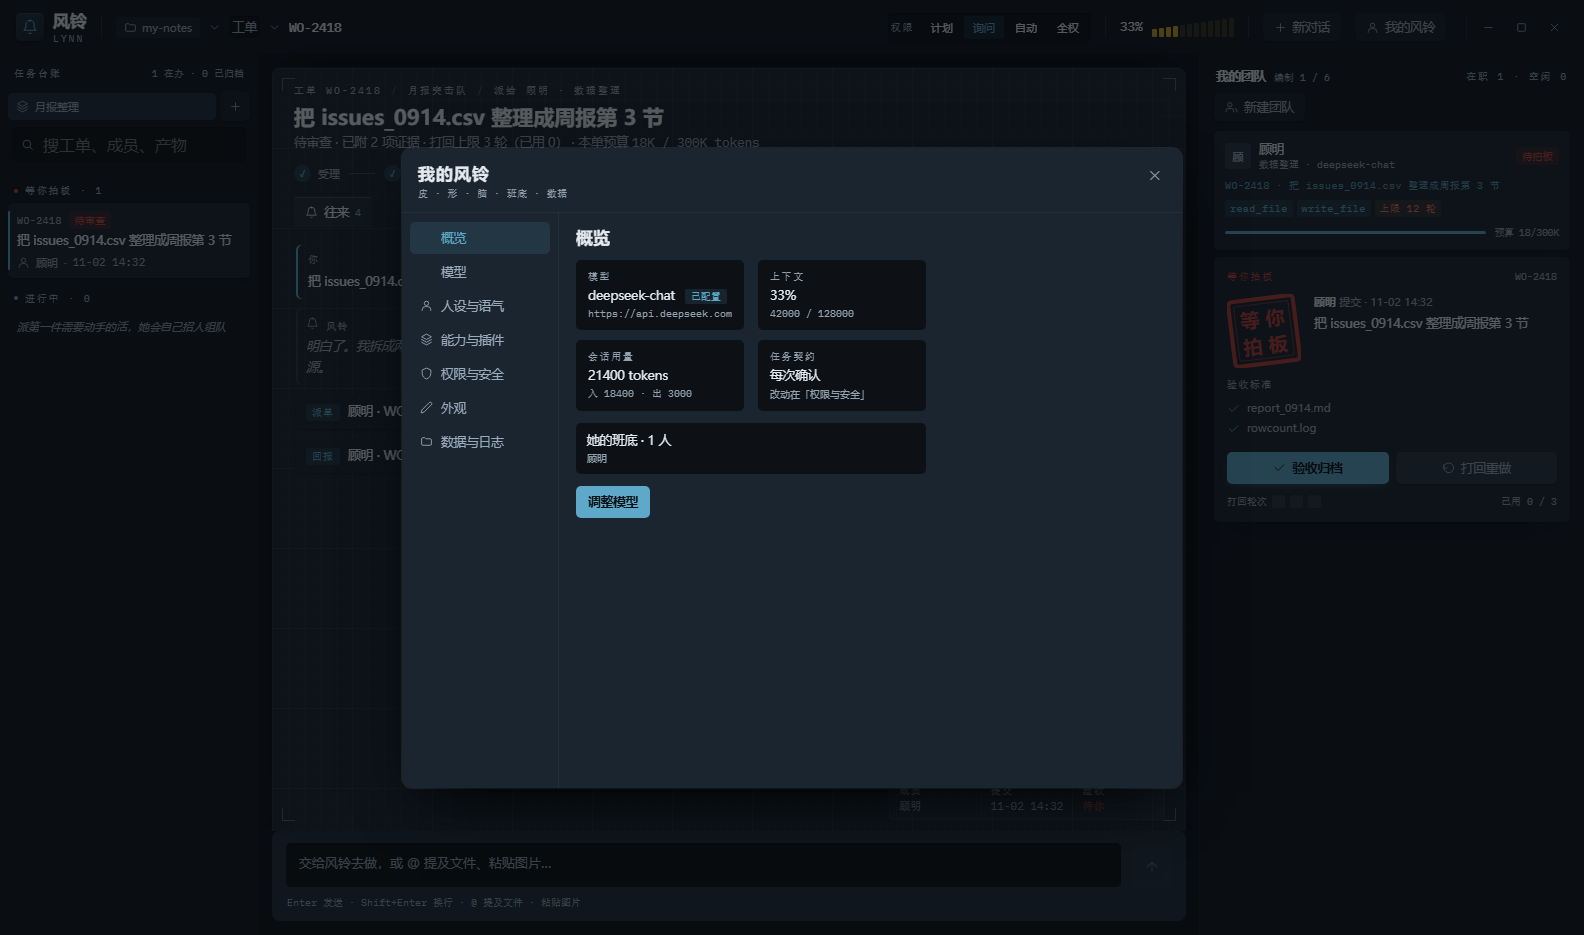
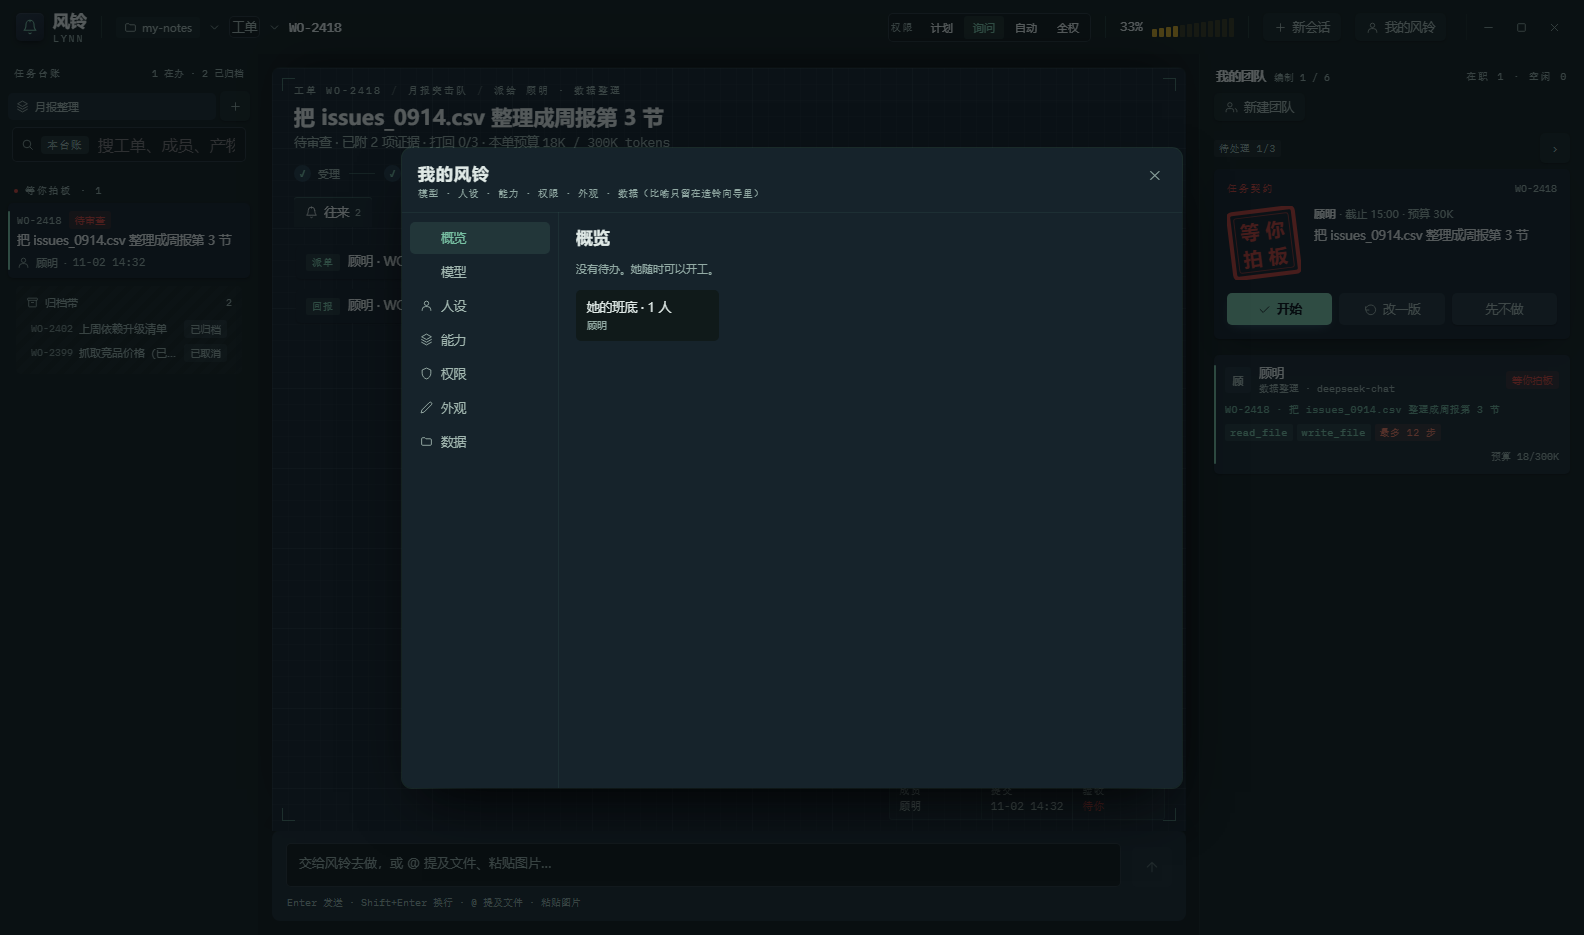
refactor(settings): 导航词与主界面统一，概览页改待办清单（E5）

diff --git a/src/renderer/components/SettingsModal.tsx b/src/renderer/components/SettingsModal.tsx
@@ -123,7 +123,7 @@ export function SettingsModal({
   } | null>(null);
 
   useEffect(() => {
-    if (tab === "data") void window.lynn.rpc("update.status").then(setUpdateInfo);
+    if (tab === "data" || tab === "overview") void window.lynn.rpc("update.status").then(setUpdateInfo);
   }, [tab]);
 
   const refreshPersona = async () => {
@@ -281,10 +281,6 @@ export function SettingsModal({
     }
     setPreview({ pack: r.pack, lines: describePack(r.pack) });
   };
-
-  const ctxPct = usage.contextWindow > 0 ? Math.round((usage.contextTokens / usage.contextWindow) * 100) : 0;
-  const statusBadge = current.configured && current.apiKeySet ? "ok" : current.configured ? "warn" : "bad";
-  const statusText = statusBadge === "ok" ? t("model.statusOk") : statusBadge === "warn" ? t("model.statusWarn") : t("model.statusBad");
 
   const page = useMemo(() => {
     if (tab === "model") {
@@ -798,47 +794,43 @@ export function SettingsModal({
       );
     }
 
+    // 概览 = 待办清单（E5）：只放需要用户处理的真问题，每条可点直达对应页；
+    // 上下文百分比/会话用量顶栏已有，不再画一遍（删掉的 sf-tile）。
+    const brokenPlugins = plugins.filter((p) => !p.loadable).length;
+    const todos: { key: string; text: string; tab: Tab }[] = [];
+    if (!current.configured) todos.push({ key: "model", text: t("overview.todoModel"), tab: "model" });
+    else if (!current.apiKeySet) todos.push({ key: "key", text: t("overview.todoKey"), tab: "model" });
+    if (project && !project.trusted) todos.push({ key: "trust", text: t("overview.todoTrust"), tab: "safety" });
+    if (brokenPlugins > 0) todos.push({ key: "plugins", text: t("overview.todoPlugins", { n: brokenPlugins }), tab: "plugins" });
+    if (uiErrors.length > 0) todos.push({ key: "ui", text: t("overview.todoUi"), tab: "plugins" });
+    if (updateInfo && (updateInfo.phase === "available" || updateInfo.phase === "downloaded")) {
+      todos.push({ key: "update", text: t("overview.todoUpdate", { v: updateInfo.latest ?? "" }), tab: "data" });
+    }
+
     return (
       <div className="sf-pane">
         <h3>{t("overview.title")}</h3>
-        <div className="sf-grid2">
-          <div className="sf-tile">
-            <span className="sf-label">{t("model.title")}</span>
-            <b>
-              {current.model || t("model.statusBad")} <span className={`sf-badge ${statusBadge}`}>{statusText}</span>
-            </b>
-            <small className="mono">{current.baseUrl || "—"}</small>
+        {todos.length === 0 ? (
+          <p className="sf-empty">{t("overview.allClear")}</p>
+        ) : (
+          <div className="sf-list">
+            {todos.map((td) => (
+              <div className="sf-row" key={td.key}>
+                <div className="sf-row-main">
+                  <b>{td.text}</b>
+                </div>
+                <button type="button" className="sf-btn primary" onClick={() => setTab(td.tab)}>
+                  {t("overview.goFix")}
+                </button>
+              </div>
+            ))}
           </div>
-          <div className="sf-tile">
-            <span className="sf-label">{t("overview.context")}</span>
-            <b>{ctxPct}%</b>
-            <small className="mono">
-              {usage.contextTokens} / {usage.contextWindow}
-            </small>
-          </div>
-          <div className="sf-tile">
-            <span className="sf-label">{t("overview.sessionUsage")}</span>
-            <b>{usage.sessionIn + usage.sessionOut} tokens</b>
-            <small className="mono">
-              {t("overview.in", { n: usage.sessionIn })} · {t("overview.out", { n: usage.sessionOut })}
-            </small>
-          </div>
-          <div className="sf-tile">
-            <span className="sf-label">{t("overview.contract")}</span>
-            <b>{autoStart ? t("safety.autoStart") : t("safety.alwaysAsk")}</b>
-            <small>{t("overview.contractHint")}</small>
-          </div>
-        </div>
+        )}
         <div className="sf-row">
           <div className="sf-row-main">
             <b>{t("overview.crew", { n: members.length })}</b>
             <small>{members.length === 0 ? t("overview.crewEmpty") : members.map((m) => m.name).join("、")}</small>
           </div>
-        </div>
-        <div className="sf-actions">
-          <button type="button" className="sf-btn primary" onClick={() => setTab("model")}>
-            {current.configured ? t("overview.adjustModel") : t("overview.configModel")}
-          </button>
         </div>
       </div>
     );
@@ -859,6 +851,8 @@ export function SettingsModal({
     notify,
     usage,
     members,
+    project,
+    updateInfo,
     busy,
     result,
     plugins,
@@ -869,9 +863,6 @@ export function SettingsModal({
     uiErrors,
     preview,
     packMsg,
-    ctxPct,
-    statusBadge,
-    statusText,
     onAmbient,
     onApplyThemeTokens,
     onAutoStart,

diff --git a/src/shared/i18n-strings.ts b/src/shared/i18n-strings.ts
@@ -14,11 +14,11 @@ export const ZH_STRINGS: Record<string, string> = {
   // 设置导航
   "nav.overview": "概览",
   "nav.model": "模型",
-  "nav.persona": "人设与语气",
-  "nav.plugins": "能力与插件",
-  "nav.safety": "权限与安全",
+  "nav.persona": "人设",
+  "nav.plugins": "能力",
+  "nav.safety": "权限",
   "nav.look": "外观",
-  "nav.data": "数据与日志",
+  "nav.data": "数据",
   // 外观页
   "look.title": "外观",
   "look.theme": "主题",
@@ -51,7 +51,7 @@ export const ZH_STRINGS: Record<string, string> = {
   "common.cancel": "取消",
   // 设置面板骨架
   "settings.title": "我的风铃",
-  "settings.subtitle": "皮 · 形 · 脑 · 班底 · 数据",
+  "settings.subtitle": "模型 · 人设 · 能力 · 权限 · 外观 · 数据（比喻只留在造铃向导里）",
   "settings.close": "关闭（Esc）",
   // 模型页
   "model.title": "模型",
@@ -145,6 +145,14 @@ export const ZH_STRINGS: Record<string, string> = {
   "overview.crewEmpty": "还没有编制。派一件需要动手的活，她会自己招人。",
   "overview.adjustModel": "调整模型",
   "overview.configModel": "去配置模型",
+  "overview.allClear": "没有待办。她随时可以开工。",
+  "overview.todoModel": "模型还没配置",
+  "overview.todoKey": "模型 Key 没存（只能用已保存的配置）",
+  "overview.todoTrust": "当前项目还没信任",
+  "overview.todoPlugins": "{n} 个插件加载失败",
+  "overview.todoUi": "界面插件在报错",
+  "overview.todoUpdate": "有新版本 {v}",
+  "overview.goFix": "去处理",
   // 印章区（契约 / 审批 / 提问 / 拍板）
   "seal.contract": "任务契约",
   "seal.tbd": "待定",
@@ -300,10 +308,10 @@ export const EN_STRINGS: Record<string, string> = {
   "nav.overview": "Overview",
   "nav.model": "Model",
   "nav.persona": "Persona",
-  "nav.plugins": "Plugins",
-  "nav.safety": "Safety",
+  "nav.plugins": "Capabilities",
+  "nav.safety": "Permissions",
   "nav.look": "Appearance",
-  "nav.data": "Data & Logs",
+  "nav.data": "Data",
   "look.title": "Appearance",
   "look.theme": "Theme",
   "look.modeDark": "Dark",
@@ -332,7 +340,7 @@ export const EN_STRINGS: Record<string, string> = {
   "ledger.scopeBoard": "This board",
   "common.cancel": "Cancel",
   "settings.title": "My Lynn",
-  "settings.subtitle": "Skin · Form · Brain · Crew · Data",
+  "settings.subtitle": "Model · persona · capabilities · permissions · appearance · data",
   "settings.close": "Close (Esc)",
   "model.title": "Model",
   "model.provider": "Provider",
@@ -420,6 +428,14 @@ export const EN_STRINGS: Record<string, string> = {
   "overview.crewEmpty": "No crew yet. Dispatch hands-on work and she will recruit.",
   "overview.adjustModel": "Adjust model",
   "overview.configModel": "Configure model",
+  "overview.allClear": "All clear. She is ready to work.",
+  "overview.todoModel": "Model is not configured",
+  "overview.todoKey": "Model key not saved (saved config only)",
+  "overview.todoTrust": "Current project is not trusted",
+  "overview.todoPlugins": "{n} plugin(s) failed to load",
+  "overview.todoUi": "A UI plugin is erroring",
+  "overview.todoUpdate": "New version {v} available",
+  "overview.goFix": "Fix",
   "seal.contract": "Task contract",
   "seal.tbd": "TBD",
   "seal.deadline": "due {d}",
